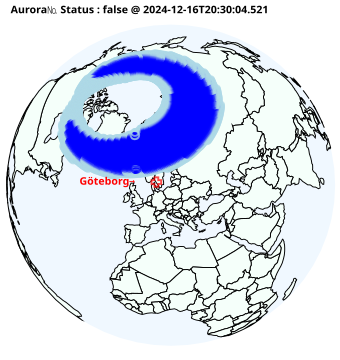
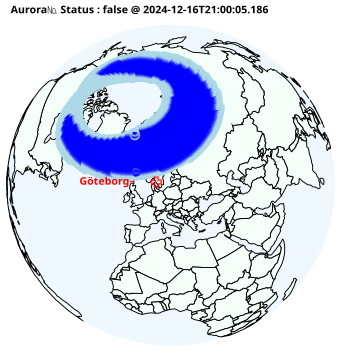
20241216210018 added aur.html

diff --git a/aur.html b/aur.html
@@ -7,6 +7,6 @@
 <body>
     <h1>Aurora Watch</h1>
     <img src="a.png" alt="Aurora Image" style="width:100%;max-width:600px;">
-    <p>Aurora Level 🌌= (0.5) was observed. (2024-12-16T20:30:04.521)</p>
+    <p>Aurora Level 🌌= (0.5) was observed. (2024-12-16T21:00:05.186)</p>
 </body>
 </html>
